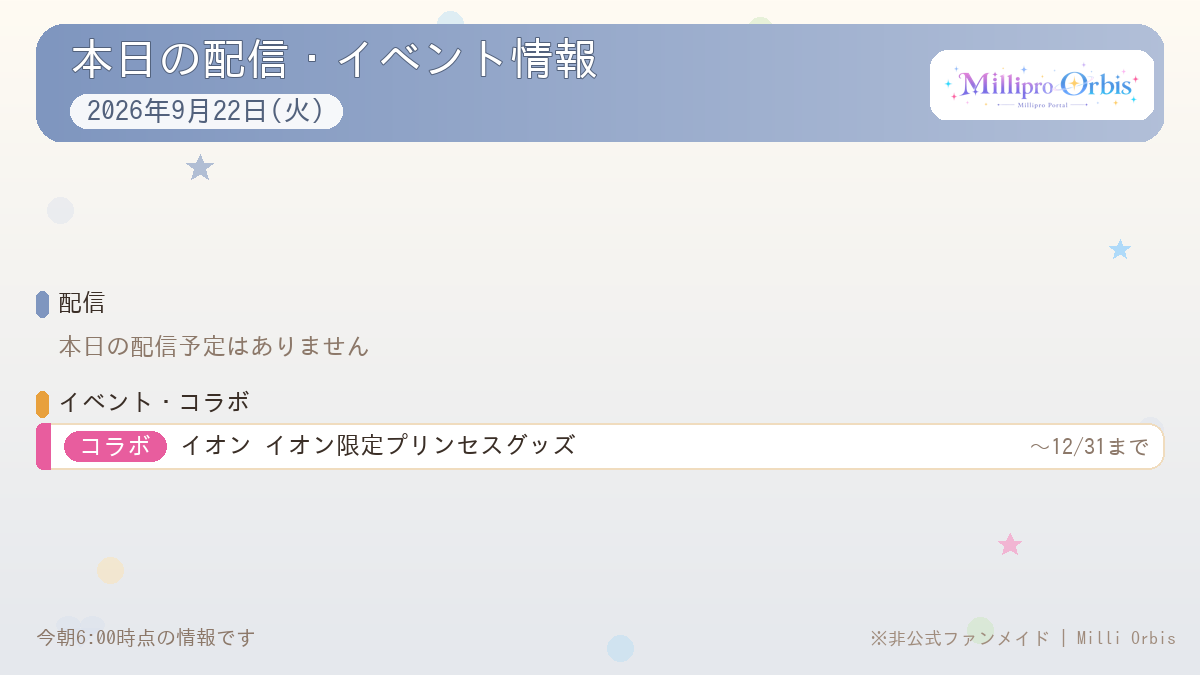
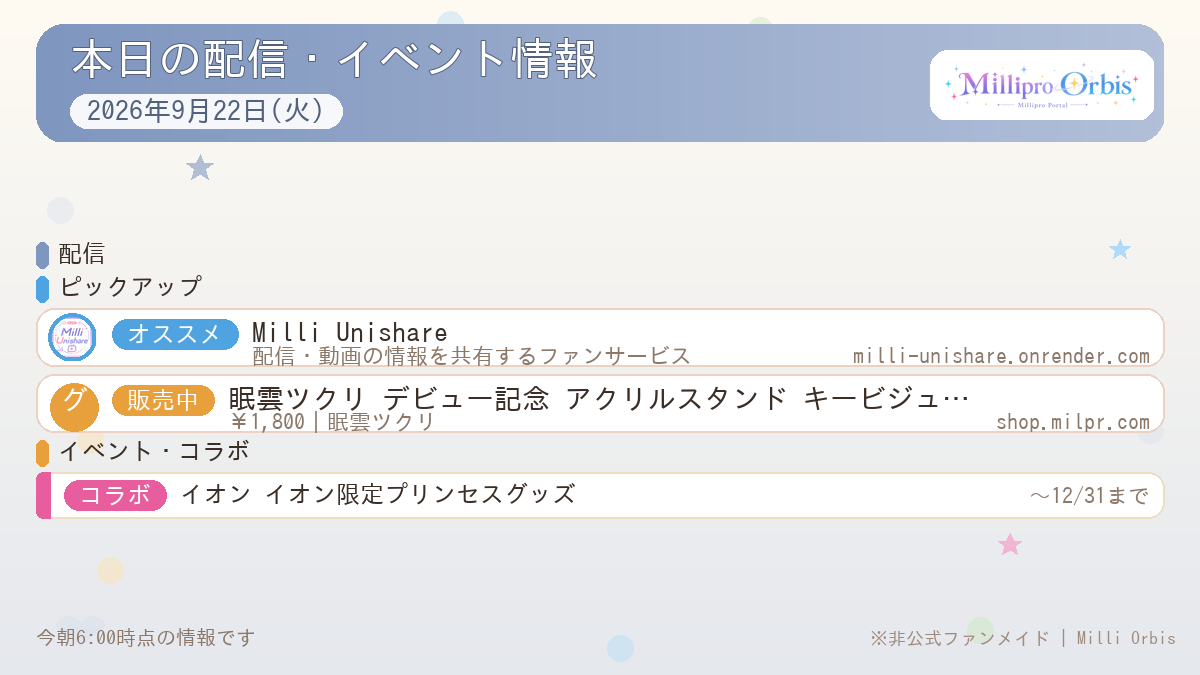
feat: 配信なし時にピックアップ宣伝(自サイト+販売中グッズ)で穴埋め

Changed region(s): [[0.0308, 0.3422, 0.9867, 0.7778]]

diff --git a/tools/gen-schedule-image.py b/tools/gen-schedule-image.py
@@ -116,6 +116,69 @@ def active_collabs(date):
     return out
 
 
+def load_launchers():
+    src = (ROOT / "data.js").read_text(encoding="utf-8")
+    m = re.search(r"const LAUNCHERS = \[(.*?)\];", src, re.S)
+    out = []
+    if not m:
+        return out
+    for e in re.finditer(
+        r'\{\s*icon:\s*"([^"]*)".*?name:\s*"([^"]+)".*?desc:\s*"([^"]+)".*?url:\s*"([^"]*)"',
+        m.group(1),
+    ):
+        icon, name, desc, url = e.groups()
+        if not url:
+            continue
+        out.append(
+            {"icon": urllib.parse.unquote(icon), "name": name, "desc": desc, "url": url}
+        )
+    return out
+
+
+def pick_promos(date, members):
+    """配信なし時の穴埋め: 自サイト宣伝1件 + 販売中グッズ1件(日付シードで決定的)。"""
+    rng = random.Random("promo" + date.isoformat())
+    promos = []
+    launchers = load_launchers()
+    if launchers:
+        l = rng.choice(launchers)
+        host = re.sub(r"^https?://", "", l["url"]).rstrip("/").split("/")[0]
+        promos.append(
+            {
+                "kind": "site",
+                "badge": "オススメ",
+                "title": l["name"],
+                "sub": l["desc"],
+                "meta": host,
+                "icon": l["icon"],
+                "shape": None,
+                "color": "#4FA3E0",
+            }
+        )
+    try:
+        goods = json.loads((ROOT / "data" / "goods-fetched.json").read_text(encoding="utf-8"))
+    except (OSError, ValueError):
+        goods = []
+    goods = [g for g in goods if g.get("name") and g.get("price")]
+    if goods:
+        g = rng.choice(goods)
+        mname = members.get(g.get("memberId", ""), {}).get("name", "")
+        sub = f"¥{g['price']:,}" + (f"｜{mname}" if mname else "")
+        promos.append(
+            {
+                "kind": "goods",
+                "badge": "販売中",
+                "title": g["name"],
+                "sub": sub,
+                "meta": "shop.milpr.com",
+                "icon": "",
+                "shape": ("グ", ["#E8A03C", "#C97B2D"]),
+                "color": "#E8A03C",
+            }
+        )
+    return promos
+
+
 def star(draw, cx, cy, r, color):
     pts = []
     for i in range(10):
@@ -166,7 +229,7 @@ def section_label(d, y, text, accent, f_sec):
     d.text((58, y - 2), text, font=f_sec, fill=INK)
 
 
-def render(date, streams, collabs, members, theme, out_path):
+def render(date, streams, collabs, promos, members, theme, out_path):
     tcol = hex_to_rgb(theme.get("color", "#75b1c0"))
     tlight = lighten(tcol, 0.72)
     tpale = lighten(tcol, 0.88)
@@ -247,7 +310,13 @@ def render(date, streams, collabs, members, theme, out_path):
     rest_c = len(collabs) - len(shown_c)
 
     # --- コンテンツ全体を垂直中央寄せ ---
-    total_h = 34 + max(len(shown_s), 1) * 66
+    if shown_s:
+        stream_h = len(shown_s) * 66
+    elif promos:
+        stream_h = 32 + len(promos) * 66
+    else:
+        stream_h = 66
+    total_h = 34 + stream_h
     if collabs:
         total_h += 32 + len(shown_c) * 52
     if rest_s > 0 or rest_c > 0:
@@ -258,8 +327,42 @@ def render(date, streams, collabs, members, theme, out_path):
     section_label(d, y, "配信", tcol, f_sec)
     y += 34
     if not shown_s:
-        d.text((58, y + 8), "本日の配信予定はありません", font=f_body, fill=MUTED)
-        y += 66
+        if promos:
+            section_label(d, y, "ピックアップ", (79, 163, 224), f_sec)
+            y += 32
+            for p in promos:
+                pcol = hex_to_rgb(p.get("color", "#4FA3E0"))
+                d.rounded_rectangle([36, y, W - 36, y + 58], radius=18, fill=CARD,
+                                    outline=(235, 210, 195), width=2)
+                icon_file = (ROOT / p["icon"]) if p.get("icon") else None
+                if icon_file and icon_file.exists():
+                    try:
+                        badge = circle_icon(icon_file, 40, pcol)
+                        img.paste(badge, (48, y + 5), badge)
+                    except OSError:
+                        d.ellipse([50, y + 9, 98, y + 57], fill=pcol)
+                elif p.get("shape"):
+                    ch, _gr = p["shape"]
+                    d.ellipse([50, y + 9, 98, y + 57], fill=pcol)
+                    cw = d.textlength(ch, font=f_name)
+                    d.text((74 - cw / 2, y + 11), ch, font=f_name, fill=(255, 255, 255))
+                else:
+                    d.ellipse([50, y + 9, 98, y + 57], fill=pcol)
+                bw = int(d.textlength(p["badge"], font=f_body)) + 30
+                d.rounded_rectangle([112, y + 11, 112 + bw, y + 41], radius=15, fill=pcol)
+                d.text((112 + 15, y + 13), p["badge"], font=f_body, fill=(255, 255, 255))
+                nx = 112 + bw + 14
+                mw = d.textlength(p.get("meta", ""), font=f_small)
+                d.text((nx, y + 10), truncate(d, p["title"], f_name, W - 36 - nx - mw - 30),
+                       font=f_name, fill=INK)
+                d.text((nx, y + 36), truncate(d, p["sub"], f_small, W - 36 - nx - mw - 30),
+                       font=f_small, fill=MUTED)
+                if p.get("meta"):
+                    d.text((W - 36 - mw - 14, y + 36), p["meta"], font=f_small, fill=MUTED)
+                y += 66
+        else:
+            d.text((58, y + 8), "本日の配信予定はありません", font=f_body, fill=MUTED)
+            y += 66
     else:
         for st in shown_s:
             m = members.get(st["memberId"], {})
@@ -329,8 +432,8 @@ def render(date, streams, collabs, members, theme, out_path):
                             outline=ACCENT, width=2)
         d.text(((W - mw) / 2, y + 6), more, font=f_body, fill=(70, 130, 145))
 
-    # --- 配信ゼロ & イベントゼロ ---
-    if not shown_s and not collabs:
+    # --- 配信ゼロ & イベントゼロ & 宣伝ゼロ ---
+    if not shown_s and not collabs and not promos:
         yy = 250
         d.rounded_rectangle([36, yy, W - 36, yy + 170], radius=24, fill=CARD,
                             outline=(235, 210, 195), width=3)
@@ -373,7 +476,8 @@ def main():
     streams = today_streams(date)
     collabs = active_collabs(date)
     theme = pick_theme(date, members)
-    render(date, streams, collabs, members, theme, ROOT / args.out)
+    promos = pick_promos(date, members) if not streams else []
+    render(date, streams, collabs, promos, members, theme, ROOT / args.out)
 
 
 if __name__ == "__main__":
